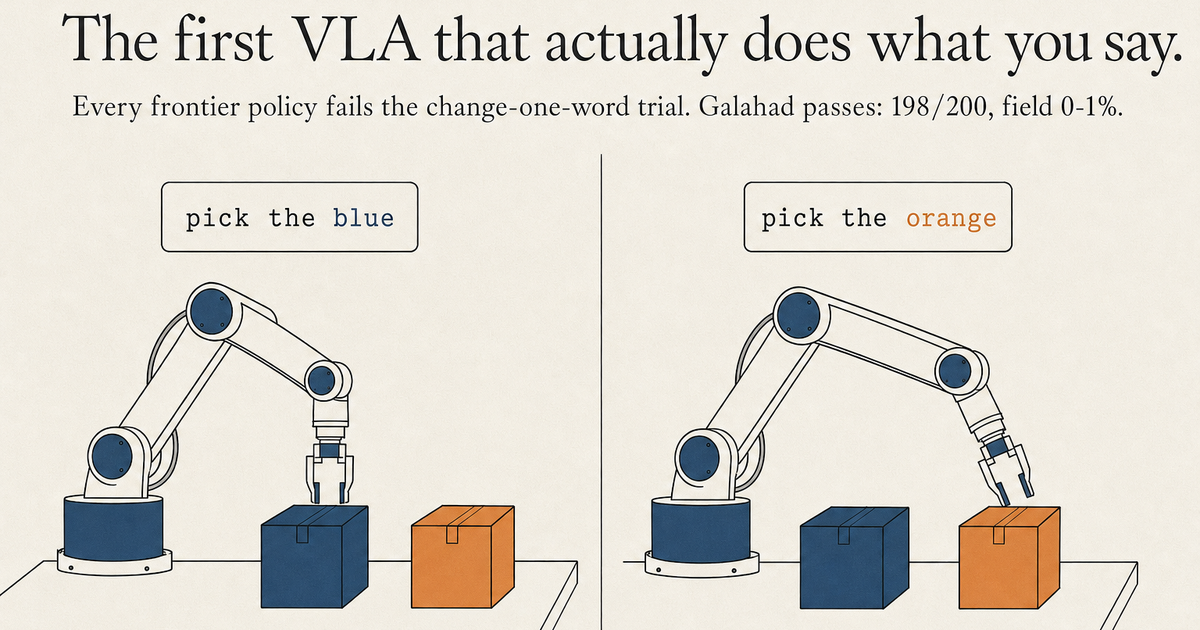
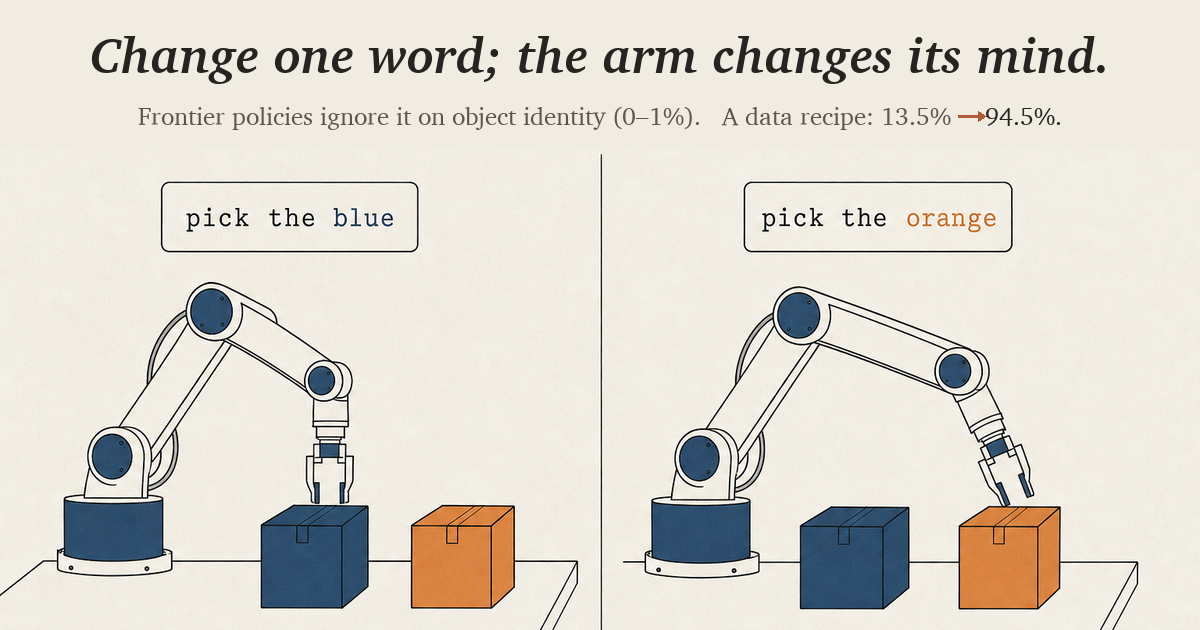
Reframe to instruction-blindness / mechanism paper; sober project page, README, PDF, social card

Changed region(s): [[0.0617, 0.0, 0.9867, 0.2111]]

diff --git a/docs/index.html b/docs/index.html
@@ -3,29 +3,29 @@
 <head>
   <meta charset="utf-8">
   <meta name="viewport" content="width=device-width, initial-scale=1">
-  <title>Galahad — A Cheat-Proof Trial for Language Grounding</title>
-  <meta name="description" content="Frontier robot policies pass benchmarks without reading the instruction. Galahad is the first policy to survive a change-one-word trial: rename the target and the arm goes to the newly named object (200/200), on less than $1,000 of GPU rental.">
+  <title>Instruction Blindness in VLA Policies — Galahad</title>
+  <meta name="description" content="Frontier robot policies pass benchmarks without reading the instruction — a failure we call instruction blindness, a measurable instance of causal confusion. We diagnose the mechanism and cure it with a data recipe: rename the target and Galahad's arm goes to the newly named object (200/200), from 13.5% to 94.5%.">
   <meta name="author" content="Yuchen Liu, Muchen Han">
   <meta name="robots" content="index, follow">
   <link rel="icon" type="image/png" href="https://xn--7xa.monster/static/favicon.png">
   <link rel="stylesheet" href="style.css">
 
-  <meta property="og:title"        content="Galahad — A Cheat-Proof Trial for Language Grounding">
-  <meta property="og:description"  content="Change one word and the arm changes its mind. Every frontier policy fails this trial; Galahad survives it — for less than $1,000.">
+  <meta property="og:title"        content="Instruction Blindness in Vision–Language–Action Policies">
+  <meta property="og:description"  content="Change one word and the arm changes its mind. Frontier policies fail this counterfactual; a data recipe cures it — 13.5% → 94.5%.">
   <meta property="og:type"         content="website">
   <meta property="og:url"          content="https://xn--7xa.monster/Galahad/">
   <meta property="og:image"        content="https://xn--7xa.monster/Galahad/static/teaser.png">
   <meta name="twitter:card"        content="summary_large_image">
-  <meta name="twitter:title"       content="Galahad — A Cheat-Proof Trial for Language Grounding">
-  <meta name="twitter:description" content="Change one word and the arm changes its mind. Every frontier policy fails this trial; Galahad survives it.">
+  <meta name="twitter:title"       content="Instruction Blindness in Vision–Language–Action Policies">
+  <meta name="twitter:description" content="Change one word and the arm changes its mind. Frontier policies fail this counterfactual; a data recipe cures it.">
   <meta name="twitter:image"       content="https://xn--7xa.monster/Galahad/static/teaser.png">
 </head>
 <body>
   <main>
 
     <header class="masthead">
-      <h1>Galahad and the Siege Perilous</h1>
-      <p class="subtitle">A cheat-proof trial for language grounding, and the first policy to survive it.</p>
+      <h1>Instruction Blindness in Vision&ndash;Language&ndash;Action Policies</h1>
+      <p class="subtitle">Diagnosis and a low-rank data cure. We release <strong>Galahad</strong>, the policy that validates it.</p>
       <p class="tagline">change one word &rarr; the arm changes its mind.</p>
 
       <nav class="links">
@@ -39,8 +39,8 @@
 
     <div class="authors">
       <p class="who"><strong>Yuchen Liu</strong><sup>*</sup> &nbsp; <strong>Muchen Han</strong><sup>*</sup></p>
-      <p class="aff"><a href="https://xn--7xa.monster">&Phi;(fight) Research</a></p>
-      <p class="eq"><sup>*</sup> Equal contribution &middot; correspondence: yuchen@&phi;.monster</p>
+      <p class="aff"><a href="https://xn--7xa.monster">&Phi;(fight) Research</a> &middot; HKUST</p>
+      <p class="eq"><sup>*</sup> Equal contribution &middot; correspondence: yuchen@&phi;.monster &middot; preprint, under review</p>
     </div>
 
     <!-- ===== the change-one-word teaser ===== -->
@@ -55,59 +55,61 @@
       </figure>
       <figure class="realrobot">
         <video src="static/realrobot_demo.mp4" autoplay loop muted playsinline controls></video>
-        <figcaption>The same recipe on a physical arm (LeKiwi-class, &#36;500 hardware; raw phone footage). Same
-          scene, two runs: name a different candy and the arm goes to it. The measured evidence table ships with
-          the release.</figcaption>
+        <figcaption>The same recipe on a low-cost SO-101-class arm (commodity servos, a single camera; raw phone
+          footage). Blank the cameras and the policy collapses to one instruction-independent attractor; with
+          vision on, the reach follows the named color &mdash; vision-gating verified on hardware.</figcaption>
       </figure>
     </section>
 
     <div class="numbers">
-      <div class="stat win"><div class="n">94.5%</div><div class="l">Galahad grounding</div></div>
+      <div class="stat win"><div class="n">94.5%</div><div class="l">cured grounding</div></div>
       <div class="stat"><div class="n">13.5%</div><div class="l">its base</div></div>
       <div class="stat"><div class="n">0&ndash;1%</div><div class="l">the field</div></div>
       <div class="stat win"><div class="n">200/200</div><div class="l">obeys the new name</div></div>
-      <div class="stat"><div class="n">&lt;&#36;1k</div><div class="l">total GPU rental</div></div>
+      <div class="stat"><div class="n">7 axes</div><div class="l">one set of weights</div></div>
     </div>
 
-    <h2>The finding</h2>
-    <p>A vision-language-action policy can pass a manipulation benchmark without reading its instruction: replace
-      the words with the string <code>xxx</code> and it emits the same actions. It succeeds by moving to the
-      object that usually sits in that position, not by reading the name. On the one axis that separates the two
-      &mdash; object identity, rename the target and keep the scene &mdash; the published field selects the correct
-      object <strong>0&ndash;1%</strong> of the time.</p>
+    <h2>Instruction blindness</h2>
+    <p>A vision&ndash;language&ndash;action policy can pass a manipulation benchmark without reading its
+      instruction: replace the words with the string <code>xxx</code> and it emits the same actions. It succeeds by
+      moving to the object that usually occupies the target position, not by resolving the name. We call this
+      failure mode <strong>instruction blindness</strong> and show it is a concrete instance of <em>causal
+      confusion</em> in imitation learning. On the one axis that separates a position shortcut from language
+      grounding &mdash; object identity, rename the target and keep the scene &mdash; the published field selects
+      the correct object <strong>0&ndash;1%</strong> of the time.</p>
 
-    <h2>The cure is data, not architecture</h2>
-    <p>We make the instruction the only predictor of the target: every object appears as the target and as a
-      distractor across randomized positions, so a position shortcut earns nothing and only reading the name pays.
-      We protect the pretrained grounding with a low-rank update &mdash; full fine-tuning on the identical data
-      <em>destroys</em> grounding (12.5%), and the low-rank cure installs it (<strong>94.5%</strong>). The released
-      weight is one merged checkpoint grounding seven referent-type axes at once: object identity, spatial, goal,
-      color, category, negation, composition (obey rate 75&ndash;99%, occlusion &le;2% on every axis). And on the
-      object family, one checkpoint's action <em>and</em> prediction of the future both obey the instruction
-      &mdash; the first verifiably grounded unified model.</p>
+    <h2>A severed route, not missing knowledge</h2>
+    <p>The pretrained backbone already resolves the named object in its language stream &mdash; a frozen probe
+      reads the binding, and injecting the word direction at an early layer flips the selected object 100% of the
+      time &mdash; but the action head routes position and never reads that binding. Because the knowledge is
+      present, the repair is a <strong>data recipe, not an architecture</strong>: make the instruction the only
+      predictor of the target, and protect the pretrained grounding with a low-rank update. Full fine-tuning on the
+      identical data <em>destroys</em> grounding (12.5%); the low-rank cure installs it (<strong>94.5%</strong>).
+      The released weight grounds seven referent-type axes in one set of weights &mdash; object identity, spatial,
+      goal, color, category, negation, composition (obey 75&ndash;99%, occlusion &le;2% on every axis).</p>
 
     <h2>Results</h2>
     <div class="teaser"><figure>
-      <img src="static/f2_main_battery.png" alt="object substitution: field 0-1%, base 13.5%, Galahad 94.5%">
-      <figcaption>Change the object's name; does the arm fetch it? Galahad reaches 94.5% where its base scores
+      <img src="static/f2_main_battery.png" alt="object substitution: field 0-1%, base 13.5%, cured 94.5%">
+      <figcaption>Change the object's name; does the arm fetch it? The cure reaches 94.5% where its base scores
         13.5% and the field 0&ndash;1%, obeying the new name 200/200 and never fetching the trained object.</figcaption>
-    </figure></div>
-    <div class="teaser"><figure>
-      <img src="static/f3_conditioning_gradient.png" alt="conditioning gradient: text-cond 71, action-cond 20-45, imitation 0-1">
-      <figcaption>One disease along one spectrum: grounding tracks how the instruction reaches the output.
-        Text-conditioned generation reads the name (65%), action-conditioned world models bottleneck it (20&ndash;45%),
-        imitation policies discard it (0&ndash;1%). Galahad grounds near 100%.</figcaption>
     </figure></div>
     <div class="teaser"><figure>
       <img src="static/f4_six_axes.png" alt="one adapter grounds six referent types">
       <figcaption>One adapter grounds six referent types at once (obey rate 77&ndash;95%); generality holds within
         trained coverage and a held-out type falls to chance.</figcaption>
     </figure></div>
+    <div class="teaser"><figure>
+      <img src="static/f3_conditioning_gradient.png" alt="conditioning gradient: text-cond 65-78, action-cond 20-45, imitation 0-1">
+      <figcaption>One disease along one spectrum: grounding tracks how the instruction reaches the output.
+        Text-conditioned generation reads the name (65&ndash;78%), action-conditioned world models bottleneck it
+        (20&ndash;45%), imitation policies discard it (0&ndash;1%).</figcaption>
+    </figure></div>
 
-    <h2 id="battery">Check any policy for the shortcut</h2>
-    <p>The core release is a one-command grounding lie-detector. It runs the same trial on <em>your</em> policy:
-      not a drop under perturbation, but a positive control &mdash; rename the target, and does the arm go to the
-      newly named object?</p>
+    <h2 id="battery">Measure the shortcut in any policy</h2>
+    <p>The measurement is a one-command counterfactual. It runs the same test on <em>your</em> policy: not a drop
+      under perturbation, but a positive control &mdash; rename the target, and does the arm go to the newly named
+      object?</p>
 <pre><code>from galahad.battery import run
 
 report = run(policy, suite="libero_object")
@@ -117,9 +119,9 @@ report.nonsense     # collapses on a meaningless name?  (needs a real name)</cod
     <p class="meta">The harness ships in the repo (<code>galahad/</code>); the one-command interface is the packaging in progress.</p>
 
     <h2>Cite</h2>
-<pre><code>@article{liu2026galahad,
-  title  = {Galahad and the Siege Perilous: A Cheat-Proof Trial for
-            Language Grounding, and the First Policy to Survive It},
+<pre><code>@misc{liu2026instructionblindness,
+  title  = {Instruction Blindness in Vision-Language-Action Policies:
+            Diagnosis and a Low-Rank Data Cure},
   author = {Liu, Yuchen and Han, Muchen},
   year   = {2026}
 }</code></pre>

diff --git a/README.md b/README.md
@@ -1,15 +1,17 @@
 # Galahad
 
-> **Galahad and the Siege Perilous: A Cheat-Proof Trial for Language Grounding, and the First Policy to Survive It**
-> **[Project page](https://xn--7xa.monster/Galahad/)** · **[Paper (PDF)](docs/static/galahad.pdf)** · **[Model](https://huggingface.co/phi-monster/Galahad)** · **[Datasets](https://huggingface.co/phi-monster)** — *arXiv id lands with the announcement.*
+> **Instruction Blindness in Vision–Language–Action Policies: Diagnosis and a Low-Rank Data Cure**
+> **[Project page](https://xn--7xa.monster/Galahad/)** · **[Paper (PDF)](docs/static/galahad.pdf)** · **[Model](https://huggingface.co/phi-monster/Galahad)** · **[Datasets](https://huggingface.co/phi-monster)** — *preprint, under review.*
 
-A vision-language-action (VLA) policy can pass a manipulation benchmark without reading its instruction: replace the words with the string `xxx` and it emits the same actions. It succeeds by moving to the object that usually sits in that position, not by reading the name. On the one axis that separates the two — object identity, rename the target and keep the scene — the published field selects the correct object **0–1%** of the time.
+A vision–language–action (VLA) policy can pass a manipulation benchmark without reading its instruction: replace the words with the string `xxx` and it emits the same actions. It succeeds by moving to the object that usually occupies that position, not by resolving the name. We call this failure mode **instruction blindness** and show it is a concrete, measurable instance of *causal confusion* in imitation learning. On the one axis that separates a position shortcut from language grounding — object identity, rename the target and keep the scene — the published field selects the correct object **0–1%** of the time.
 
-**Galahad is the first policy to survive a change-one-word trial.** Rename the target and the arm goes to the newly named object (**200 / 200**, landing a median **2 mm** from it), where its base scores **13.5%** and the field 0–1%. The cure is a data recipe, not an architecture: make the instruction the only predictor of the target, and protect the pretrained grounding with a low-rank update — full fine-tuning on the same data *destroys* grounding (12.5%), the low-rank cure installs it (**94.5%**). The released weight is one merged checkpoint grounding seven referent-type axes (object identity, spatial, goal, color, category, negation, composition; obey 75–99%, occlusion ≤2% on every axis). Every result was produced for **less than $1,000** of commodity GPU rental.
+**The mechanism is a severed route, not missing knowledge.** The pretrained backbone already resolves the named object in its language stream (a frozen probe reads the binding; injecting the word direction flips the selected object 100% of the time), but the action head routes position and never reads that binding. Because the knowledge is present, the repair is a **data recipe, not an architecture**: make the instruction the only predictor of the target, and protect the pretrained grounding with a low-rank update. Full fine-tuning on the same data *destroys* grounding (12.5%); the low-rank cure installs it (**94.5%**, from a base of 13.5%).
 
-## The battery: check any policy for the shortcut
+**Galahad is the released policy that validates the cure.** Rename the target and the arm goes to the newly named object (**200 / 200**, landing a median **2 mm** from it). One set of weights grounds seven referent-type axes (object identity, spatial, goal, color, category, negation, composition; obey 75–99%, occlusion ≤2% on every axis), and the recipe transfers to a second simulator.
 
-The core release is a one-command grounding lie-detector. It runs the same trial on *your* policy — not a drop under perturbation, but a positive control: rename the target, and does the arm go to the newly named object?
+## The battery: measure the shortcut in any policy
+
+The measurement is a one-command counterfactual — not a drop under perturbation, but a positive control: rename the target, and does the arm go to the newly named object?
 
 ```python
 from galahad.battery import run
@@ -48,7 +50,7 @@ docs/           # project page (GitHub Pages)
 
 - **Model** — [one merged checkpoint](https://huggingface.co/phi-monster/Galahad) grounding seven referent-type axes in a single set of weights, and the [object-family dual-output checkpoint](https://huggingface.co/phi-monster/Galahad-object-unified) (action + grounded future-prediction), rebuilt from the released recipe and battery-verified.
 - **Dataset + generator** — the deconfounded referent-type sets in LeRobot format, and the generator that produces both the exam (the battery) and the medicine (the training set) from one principle.
-- **Battery** — the one-command grounding check above.
+- **Battery** — the one-command grounding measurement above.
 - **Paper** — the manuscript and every figure script.
 
 Everything open, permissively licensed, one-command reproducible.